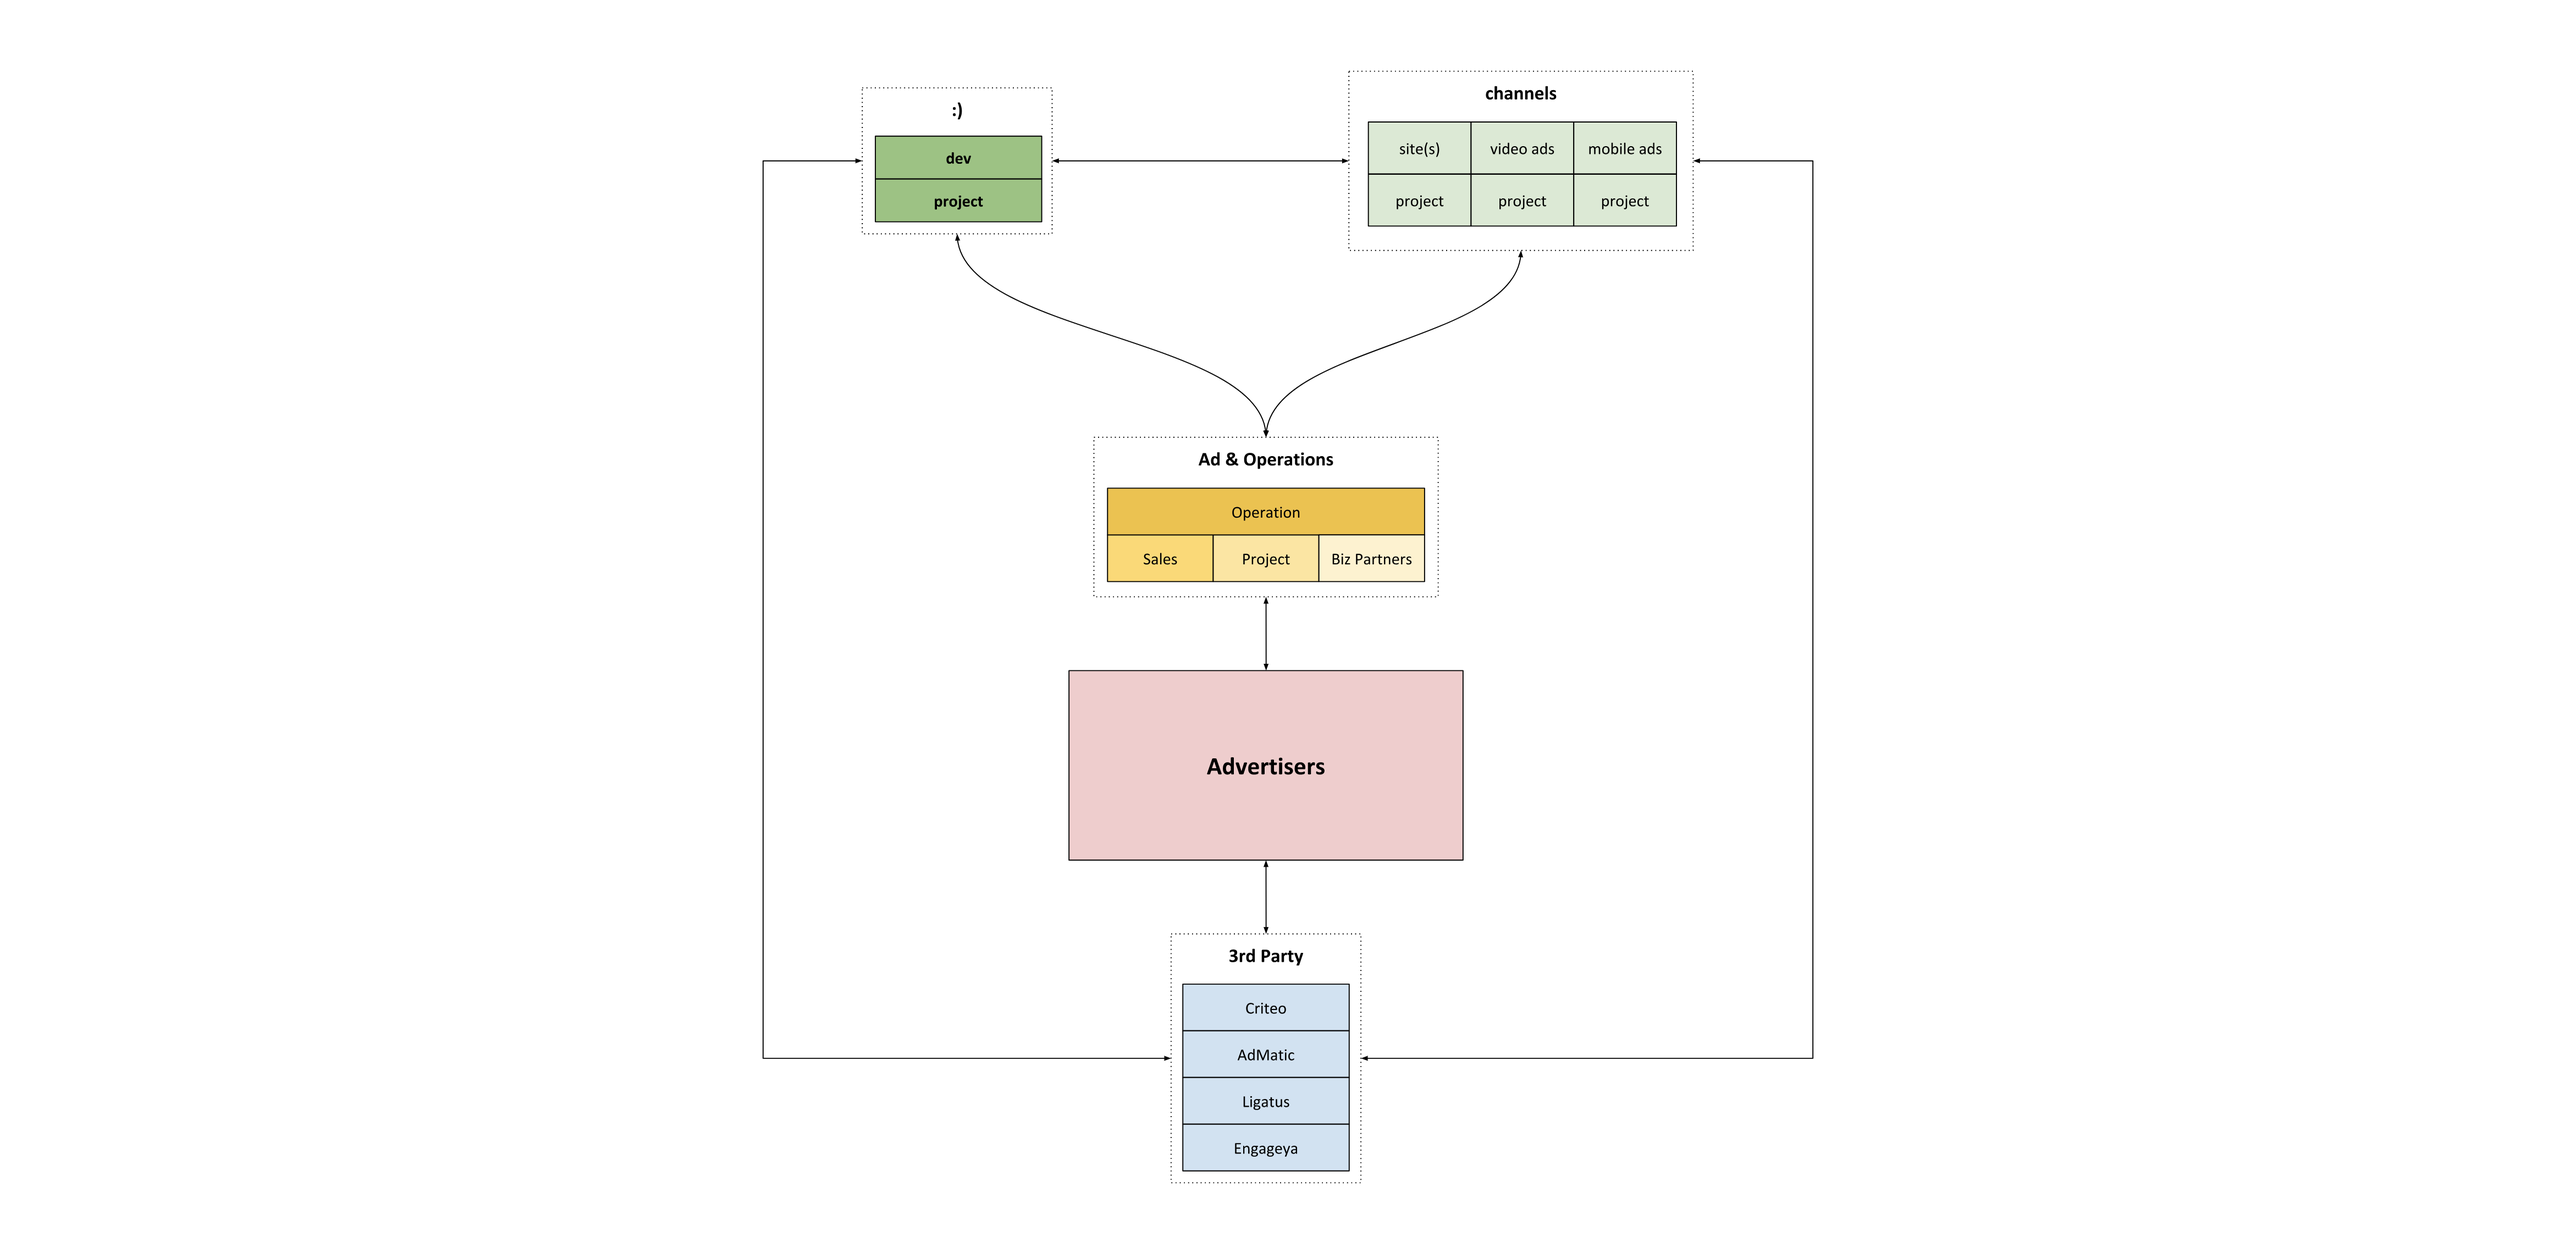
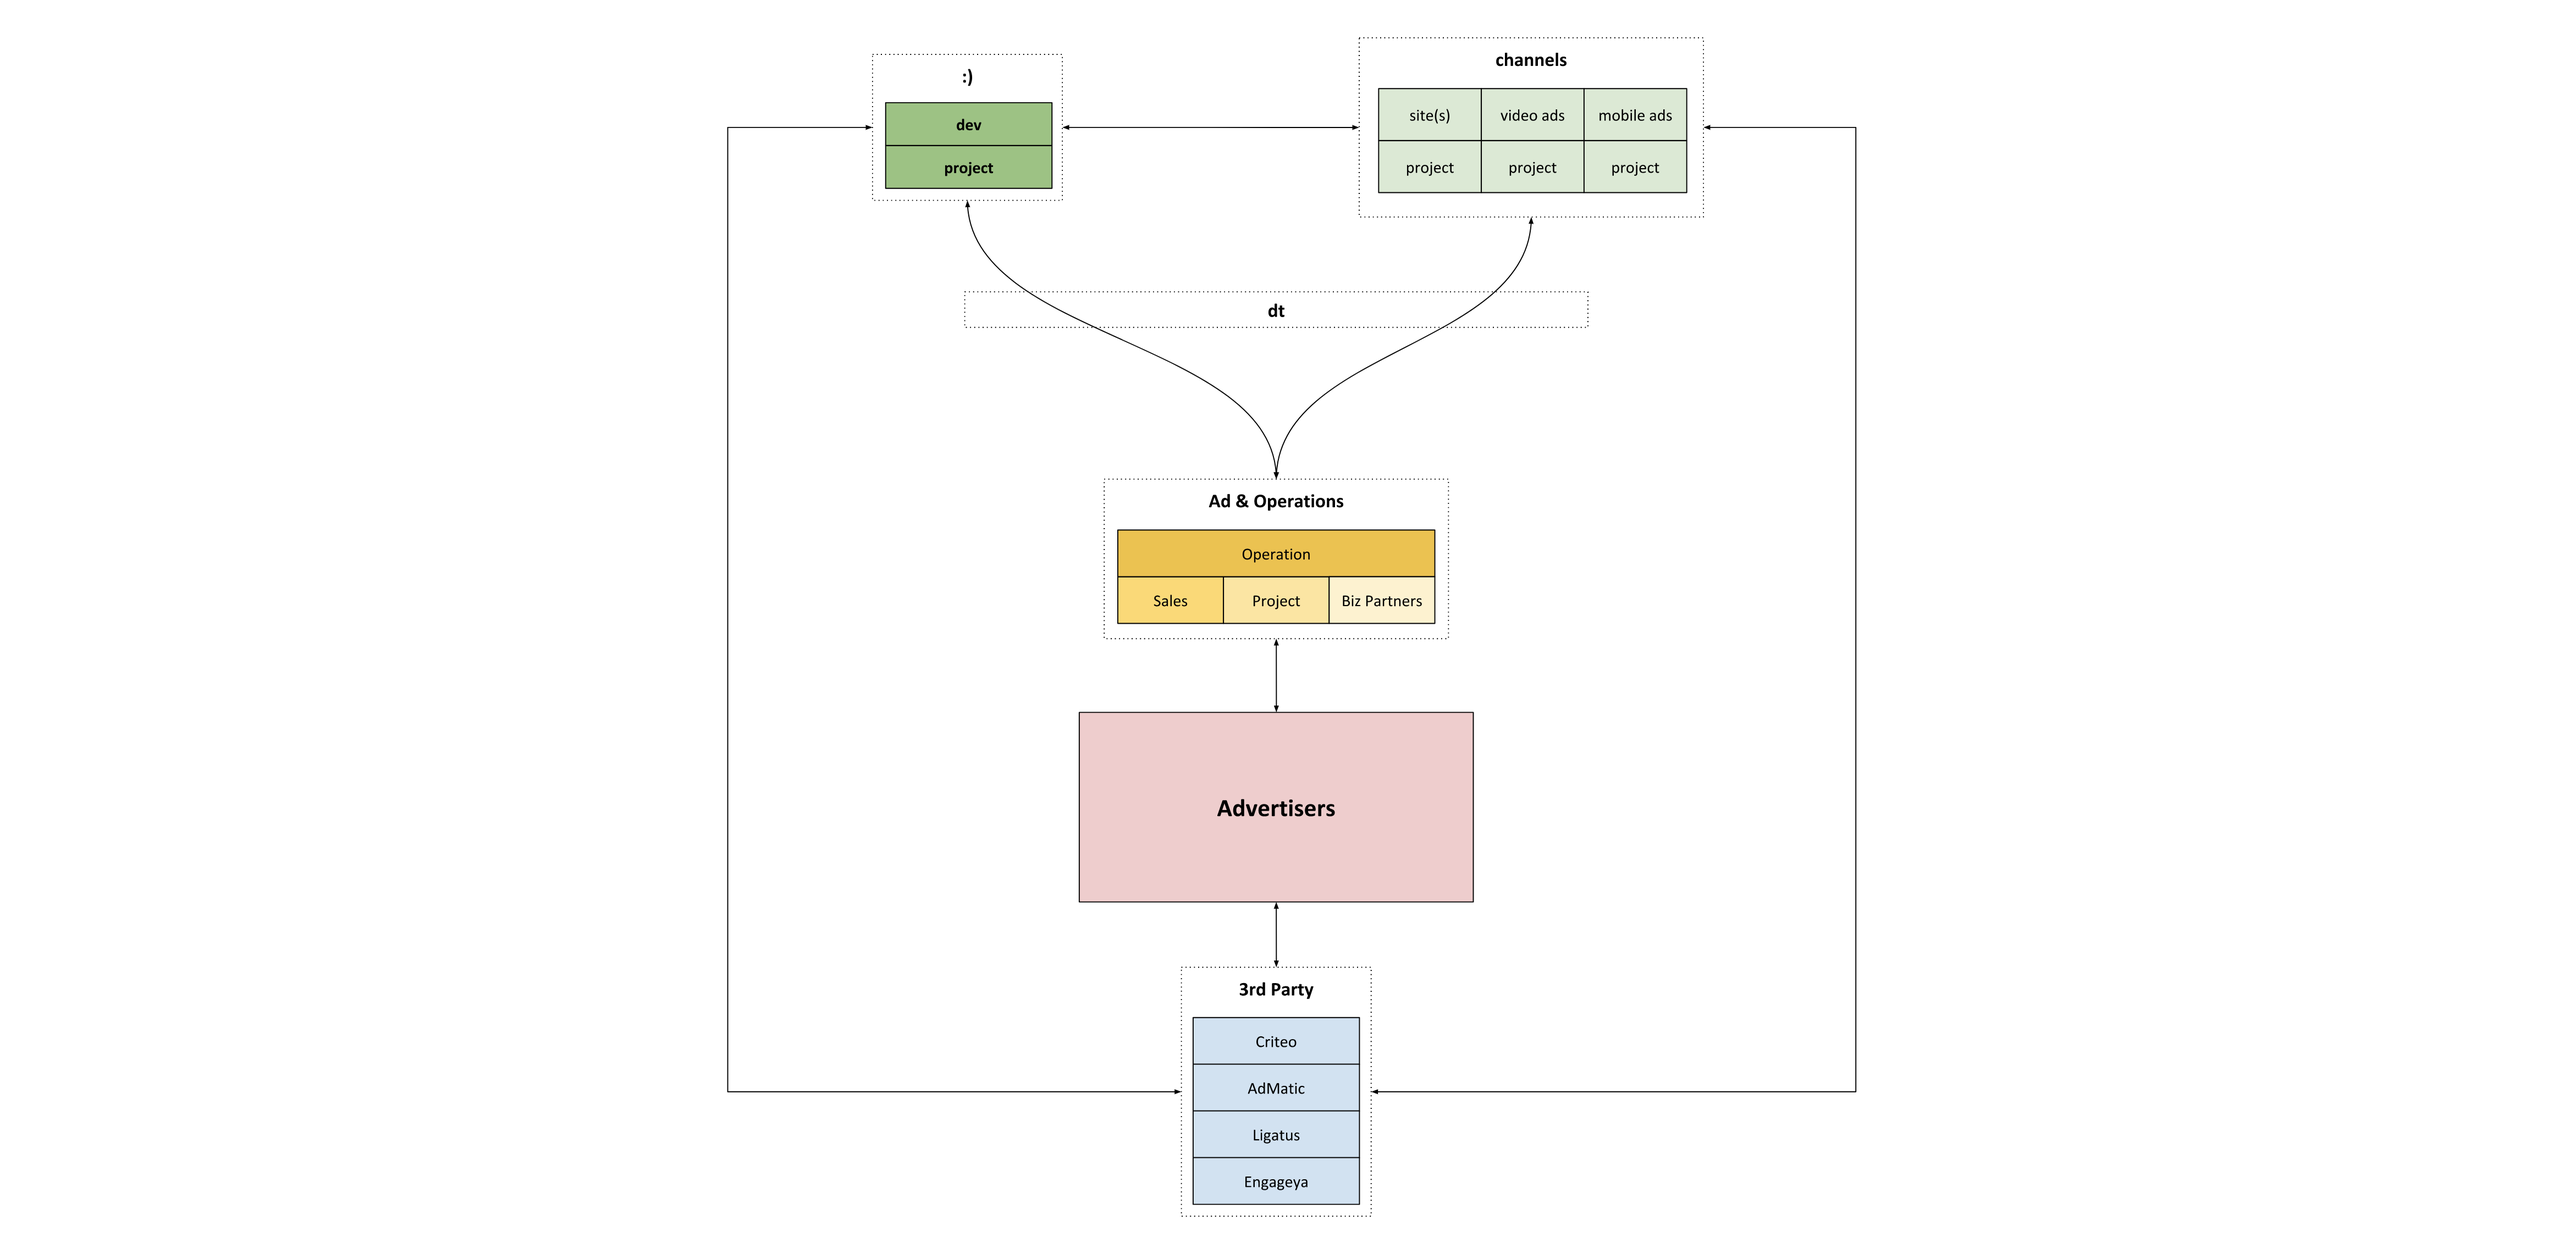
Adds dt to communication diagram

diff --git a/docs/issues.md b/docs/issues.md
@@ -1,12 +1,14 @@
 # issues
 
+- grouped by bad parts
+
 ## design related issues
 
 - style related
   - **demo#0**
     - [first steps](https://xkema.github.io/untitled-ad-manager-demos/src/my-shiny-site-as-a-publisher/)
 - behavioral
-- maintaining 19 different projects see [#information-architecture](#information-architecture)
+- maintaining 19 different projects see [#information-architecture-related-issues](##information-architecture-related-issues)
 
 ## information architecture related issues
 
